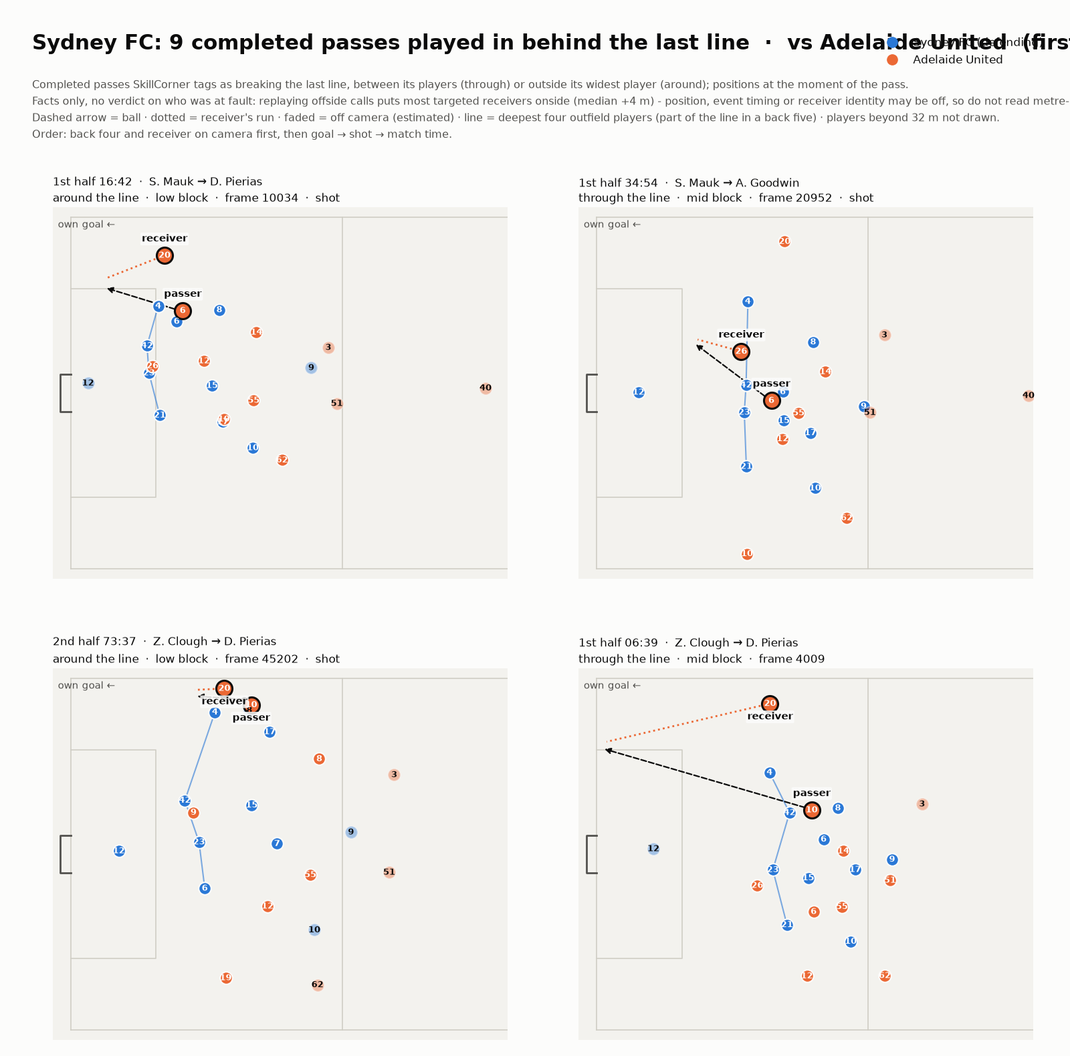
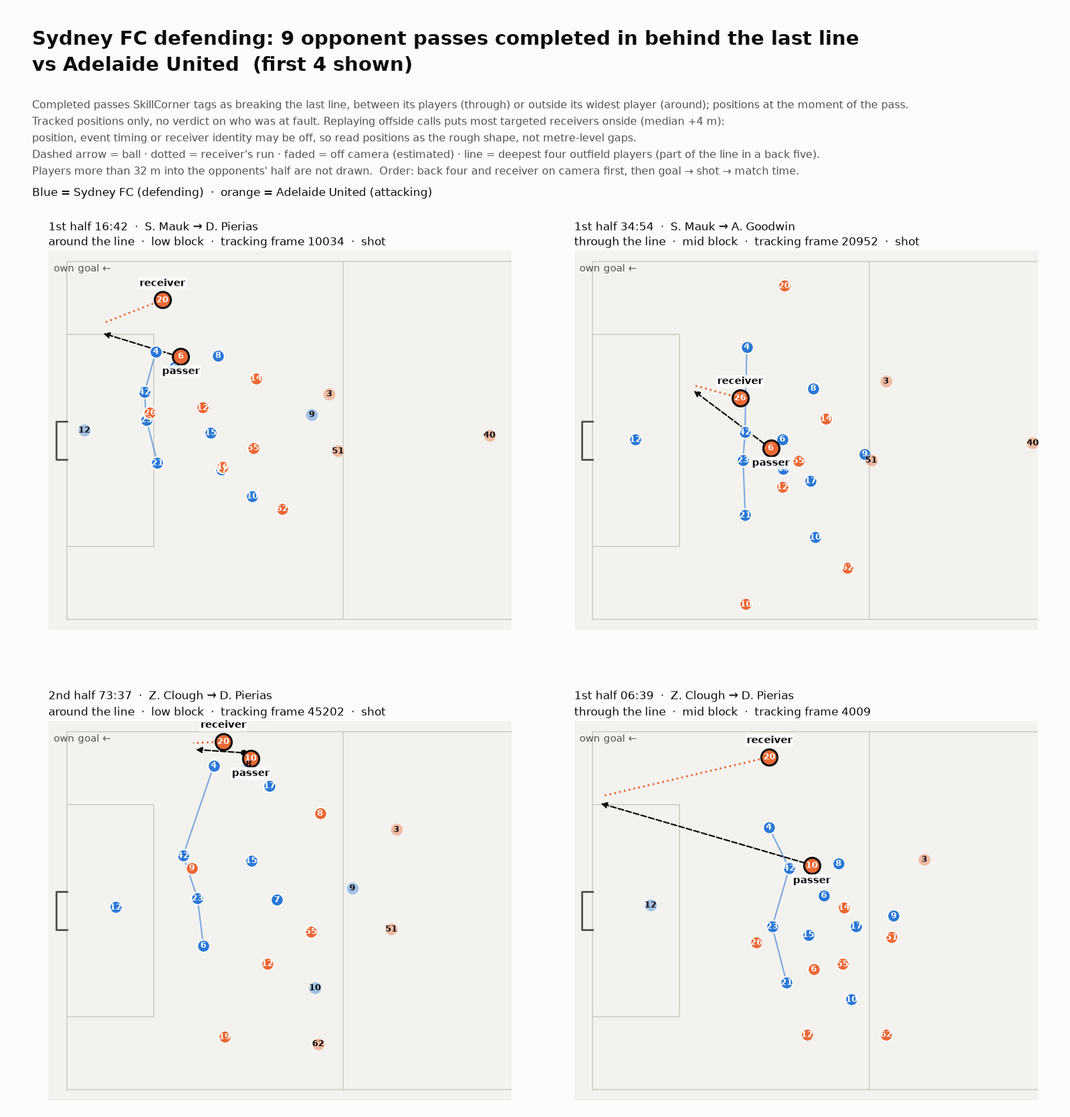
Final review fixes: clarify that SkillCorner tags the passes, defending-team titles, tracking frame (10 fps), defensive phase, cross-match reliability (5 of 9 not detectable, 39 team-matches), per-r sample sizes, low-block coverage bias, matches.json for other leagues, layout fixes in figures, stale

diff --git a/backline/cards.py b/backline/cards.py
@@ -12,23 +12,27 @@ from .usual import COARSE
 
 DEF, ATT = "#2a78d6", "#eb6834"
 TXT = {
-    "en": dict(title="{team}: {n} completed passes played in behind the last line  ·  vs {opp}",
+    "en": dict(title="{team} defending: {n} opponent {passes} completed in behind the last line  ·  vs {opp}",
                sub=("Completed passes SkillCorner tags as breaking the last line, between its players (through) or outside its widest player (around); positions at the moment of the pass.\n"
-                    "Facts only, no verdict on who was at fault: replaying offside calls puts most targeted receivers onside (median +4 m) - position, event timing or receiver identity may be off, so do not read metre-level gaps.\n"
-                    "Dashed arrow = ball · dotted = receiver's run · faded = off camera (estimated) · line = deepest four outfield players (part of the line in a back five) · players beyond {xmax:.0f} m not drawn.\n"
+                    "Tracked positions only, no verdict on who was at fault. Replaying offside calls puts most targeted receivers onside (median +4 m):\n"
+                    "position, event timing or receiver identity may be off, so read positions as the rough shape, not metre-level gaps.\n"
+                    "Dashed arrow = ball · dotted = receiver's run · faded = off camera (estimated) · line = deepest four outfield players (part of the line in a back five).\n"
+                    "Players more than {xmax:.0f} m into the opponents' half are not drawn.  "
                     "Order: back four and receiver on camera first, then goal → shot → match time."),
                half={1: "1st half", 2: "2nd half"}, shot="shot", goal="GOAL", through="through the line", around="around the line",
                blocks={"low_block": "low block", "medium_block": "mid block", "high_block": "high block",
                        "defending_direct": "vs direct play", "defending_transition": "in transition", "chaotic": "broken play",
                        "defending_set_play": "set play", "defending_quick_break": "vs quick break"},
                legend_def="{team} (defending)", legend_att="{opp}", passer="passer", receiver="receiver", est=" (off camera)",
-               none="No completed pass got in behind the last line ({k} attempted, none completed). Dribbles and runs are not counted.",
-               own_goal="own goal ←", frame="frame {f}", shown="  (first {k} shown)", u_high="line higher than usual (3 m+)",
+               none="No completed pass got in behind the last line ({k} attempted). Dribbles and runs are not counted.",
+               own_goal="own goal ←", frame="tracking frame {f}", key="Blue = {team} (defending)  ·  orange = {opp} (attacking)", shown="  (first {k} shown)", u_high="line higher than usual (3 m+)",
                u_deep="line deeper than usual (3 m+)", u_same="line about usual", offcam="reference only (key players off camera)"),
-    "ko": dict(title="{team}: 최후방 라인 돌파 성공 패스 {n}개  ·  상대 {opp}",
+    "ko": dict(title="{team} 수비: 상대가 최후방 라인 뒤로 성공시킨 패스 {n}개{passes}  ·  상대 {opp}",
                sub=("SkillCorner가 최후방 라인 돌파로 표시한 성공 패스 — 라인 선수 사이(사이로) 또는 가장 바깥 선수 바깥(바깥으로). 위치는 패스 순간.\n"
-                    "사실만 표시하고 누구 잘못인지 판정하지 않음 — 오프사이드 판정을 재현해 보면 패스 대상 선수가 대부분 온사이드로 계산됨(중앙값 +4m). 위치·이벤트 시각·받는 선수 식별 중 어디서든 어긋날 수 있으니 m 단위 차이는 읽지 말 것.\n"
-                    "파선 화살표 = 공 · 점선 = 받는 선수 이동 · 흐린 점 = 화면 밖(추정) · 연결선 = 가장 깊은 필드 선수 4명(5백이면 라인 일부) · {xmax:.0f}m 밖 선수는 생략.\n"
+                    "트래킹 위치만 표시하고 누구 잘못인지 판정하지 않음. 오프사이드 판정을 재현해 보면 패스 대상 선수가 대부분 온사이드로 계산됨(중앙값 +4m):\n"
+                    "위치·이벤트 시각·받는 선수 식별 중 어디서든 어긋날 수 있으니, 위치는 대략적인 배치로 보고 m 단위 차이는 읽지 말 것.\n"
+                    "파선 화살표 = 공 · 점선 = 받는 선수 이동 · 흐린 점 = 화면 밖(추정) · 연결선 = 가장 깊은 필드 선수 4명(5백이면 라인 일부).\n"
+                    "상대 진영 {xmax:.0f}m보다 깊은 선수는 생략.  "
                     "순서: 최후방 4명·받는 선수가 화면에 잡힌 장면 먼저, 그 안에서 골 → 슈팅 → 경기 시간."),
                half={1: "전반", 2: "후반"}, shot="슈팅", goal="골", through="라인 사이로", around="라인 바깥으로",
                blocks={"low_block": "로우 블록", "medium_block": "미드 블록", "high_block": "하이 블록",
@@ -36,7 +40,7 @@ TXT = {
                        "defending_set_play": "세트피스", "defending_quick_break": "역습 대응"},
                legend_def="{team} (수비)", legend_att="{opp}", passer="패서", receiver="받는 선수", est="(화면 밖)",
                none="최후방 라인 뒤로 들어간 성공 패스 없음(시도 {k}개는 모두 실패). 드리블·침투는 세지 않음.",
-               own_goal="← 자기 골대", frame="프레임 {f}", shown="  (앞 {k}개만 표시)", u_high="평소보다 라인 높음(3m+)",
+               own_goal="← 자기 골대", frame="트래킹 프레임 {f}", key="파랑 = {team}(수비)  ·  주황 = {opp}(공격)", shown="  (앞 {k}개만 표시)", u_high="평소보다 라인 높음(3m+)",
                u_deep="평소보다 라인 깊음(3m+)", u_same="평소와 비슷한 라인", offcam="참고용(핵심 선수 화면 밖)"),
 }
 
@@ -69,25 +73,28 @@ def render(sc: list[dict], team_name: str, opp_name: str, out: Path, lang="en", 
     n = len(sc)
     cols = 2
     rows = max(1, math.ceil(n / cols))
-    H = 3.4 + 6.2 * rows
+    H = 4.3 + 6.2 * rows
     fig = plt.figure(figsize=(16, H), facecolor=SURFACE)
-    title = T["title"].format(team=team_name, n=total if total is not None else n, opp=opp_name)
+    nn = total if total is not None else n
+    title = T["title"].format(team=team_name, n=nn, opp=opp_name, passes=("pass" if nn == 1 else "passes") if lang == "en" else "")
     if total is not None and total > n:
         title += T["shown"].format(k=n)
-    fig.text(0.03, 1 - 0.5 / H, title, fontsize=22, fontweight="bold", color=INK, va="top")
-    fig.text(0.03, 1 - 1.15 / H, T["sub"].format(xmax=XMAX), fontsize=11.5, color=INK2, va="top", linespacing=1.55)
+    if len(title) > 70:                                   # wide fonts: break before the opponent
+        title = title.replace("  ·  ", "\n", 1)
+    fig.text(0.03, 1 - 0.4 / H, title, fontsize=21, linespacing=1.3, fontweight="bold", color=INK, va="top")
+    fig.text(0.03, 1 - 1.45 / H, T["sub"].format(xmax=XMAX), fontsize=11.5, color=INK2, va="top", linespacing=1.55)
     h = [Line2D([], [], marker="o", ls="", ms=11, color=DEF, label=T["legend_def"].format(team=team_name)),
          Line2D([], [], marker="o", ls="", ms=11, color=ATT, label=T["legend_att"].format(opp=opp_name))]
+    fig.text(0.03, 1 - 2.8 / H, T["key"].format(team=team_name, opp=opp_name), fontsize=12, color=INK, va="top")
     if n % 2 == 1:
-        lax = fig.add_subplot(fig.add_gridspec(rows, 2, left=0.03, right=0.985, top=1 - 3.1 / H, bottom=0.015,
+        lax = fig.add_subplot(fig.add_gridspec(rows, 2, left=0.03, right=0.985, top=1 - 3.75 / H, bottom=0.015,
                                                wspace=0.06, hspace=0.24)[rows - 1, 1])
         lax.axis("off")
         lax.legend(handles=h, loc="center", frameon=False, fontsize=15)
-    else:
-        fig.legend(handles=h, loc="upper right", bbox_to_anchor=(0.985, 1 - 0.4 / H), frameon=False, fontsize=12.5)
+
     if n == 0:
         fig.text(0.03, 0.4, T["none"].format(k=attempts), fontsize=14, color=INK)
-    gs = fig.add_gridspec(rows, cols, left=0.03, right=0.985, top=1 - 3.1 / H, bottom=0.015, wspace=0.06, hspace=0.24)
+    gs = fig.add_gridspec(rows, cols, left=0.03, right=0.985, top=1 - 3.75 / H, bottom=0.015, wspace=0.06, hspace=0.24)
     for i, s in enumerate(sc):
         ax = fig.add_subplot(gs[i // cols, i % cols])
         _half_pitch(ax, XMAX)
@@ -123,7 +130,7 @@ def render(sc: list[dict], team_name: str, opp_name: str, out: Path, lang="en", 
                 lab = T["receiver"] if p["id"] == s["receiver_id"] else T["passer"]
                 if not p["det"]:
                     lab += T["est"]
-                ax.annotate(lab, (p["x"], p["y"]), xytext=(0, -17 if p["y"] > 27 else 15), textcoords="offset points", ha="center", fontsize=10.5,
+                ax.annotate(lab, (p["x"], p["y"]), xytext=(0, 15 if p["id"] == s["receiver_id"] else -19), textcoords="offset points", ha="center", fontsize=10.5,
                             color=INK, fontweight="bold", zorder=7, bbox=dict(boxstyle="round,pad=0.15", fc=SURFACE, ec="none", alpha=.85))
         res = T["goal"] if s["lead_to_goal"] else (T["shot"] if s["lead_to_shot"] else "")
         g = s.get("usual_gap")

diff --git a/backline/report.py b/backline/report.py
@@ -22,8 +22,8 @@ TXT = {
                "width": "Line width (m)", "shift": "Ball-side shift (line moves N m when ball moves 10 m sideways)", "lockstep": "Moving together (speed spread while the line moves, m/s; lower = more in step)"},
         blocks={"low_block": "low block", "medium_block": "mid block", "all": "low + mid block"},
         meas="seen {s}s of {t}s", nm="not measurable: {s}s on camera",
-        rel="league r: halves {r:.2f} · matches {rc:.2f} (n={n})", league="grey dots = other A-League 24/25 team-matches where this could be measured (dot size = seconds measured)\ncoloured bar = sampling error among THIS match's on-camera moments (90%, resampling defensive phases; excludes tracking error and camera selection)\nleague r = how well the metric repeats between halves / between matches (13 teams); near 0 means read it as this match only",
-        shape="Typical back-line shape (median, measured frames)", attack="own goal ←", hb="High block: all four on camera for only {s}s of {t}s (league median {med}s) — not calculated.",
+        rel="league r: halves {r:.2f} (n={n}) · matches {rc:.2f} (n={nc})", league="grey dots = other team-matches in the league reference where this could be measured (dot size = seconds measured)\ncoloured bar = sampling error among THIS match's on-camera moments (90%, resampling defensive phases; excludes tracking error and camera selection)\nleague r = how well the metric repeats between halves / between matches ({nt} teams); near 0 means read it as this match only",
+        shape="This match: median back-line shape (on-camera frames)", attack="own goal ←", hb="High block: all four on camera for {s}s of {t}s (60 s needed; league median {med}s) — not calculated.",
         lower_is="lower = flatter", lowv="lower = more in step",
         lb_mid="mid block: not shown — on-camera moments there\nare biased towards the ball being near the line\n(on-camera vs estimate-inclusive: typically ~9 m apart)"),
     "ko": dict(
@@ -33,8 +33,8 @@ TXT = {
                "width": "라인 폭 (m)", "shift": "볼 쪽 이동 (공이 옆으로 10m 갈 때 라인 이동 m)", "lockstep": "함께 움직임 (라인 이동 중 속도 흩어짐 m/s, 낮을수록 같이)"},
         blocks={"low_block": "로우 블록", "medium_block": "미드 블록", "all": "로우+미드"},
         meas="{t}초 중 {s}초 화면", nm="측정 불가: 화면 {s}초",
-        rel="리그 r: 전·후반 {r:.2f} · 경기 간 {rc:.2f} (n={n})", league="회색 점 = 측정 가능했던 A리그 24/25 다른 팀-경기 (점 크기 = 측정 시간)\n색 막대 = 이 경기 화면 안 순간들 사이의 표본 오차 (90%, 수비 국면 재표집; 트래킹 오차·화면 선택 편향은 미포함)\n리그 r = 지표가 전·후반 / 경기 간에 되풀이되는 정도(13팀) — 0에 가까우면 이 경기만의 값으로 읽을 것",
-        shape="평소 백포 모양 (중앙값, 측정된 순간)", attack="← 자기 골대", hb="하이 블록: {t}초 중 4명이 모두 화면에 잡힌 시간 {s}초(리그 중앙값 {med}초) — 계산하지 않음.",
+        rel="리그 r: 전·후반 {r:.2f} (n={n}) · 경기 간 {rc:.2f} (n={nc})", league="회색 점 = 리그 기준값 중 측정 가능했던 다른 팀-경기 (점 크기 = 측정 시간)\n색 막대 = 이 경기 화면 안 순간들 사이의 표본 오차 (90%, 수비 국면 재표집; 트래킹 오차·화면 선택 편향은 미포함)\n리그 r = 지표가 전·후반 / 경기 간에 되풀이되는 정도({nt}팀) — 0에 가까우면 이 경기만의 값으로 읽을 것",
+        shape="이 경기 중앙값 백포 모양 (화면에 잡힌 순간)", attack="← 자기 골대", hb="하이 블록: {t}초 중 4명이 모두 화면에 잡힌 시간 {s}초(60초 필요, 리그 중앙값 {med}초) — 계산하지 않음.",
         lower_is="낮을수록 일직선", lowv="낮을수록 같이 움직임",
         lb_mid="미드 블록: 표시 안 함 — 화면에 잡힌 순간이\n'공이 라인 가까울 때'로 쏠려 있어\n추정값 포함 값과 보통 약 9m 차이"),
 }
@@ -70,7 +70,7 @@ def render(frames, met, team_id, team_name, opp_name, league: pd.DataFrame, out:
                           wspace=0.12, hspace=1.75)
     fig.text(0.03, 0.958, T["title"].format(team=team_name, opp=opp_name), fontsize=23, fontweight="bold", color=INK)
     fig.text(0.03, 0.935, T["sub"], fontsize=12.5, color=INK2, va="top", linespacing=1.4)
-    fig.text(0.03, 0.897, T["league"], fontsize=11.5, color=INK2, va="top", linespacing=1.4)
+    fig.text(0.03, 0.897, T["league"].replace("{nt}", str(league.team_id.nunique())), fontsize=11.5, color=INK2, va="top", linespacing=1.4)
     for j, blk in enumerate(("low_block", "medium_block")):
         fig.text(0.03 + j * 0.305, 0.822, T["blocks"][blk], fontsize=16, fontweight="bold", color=BLOCK_COLOR[blk])
     for i, name in enumerate(names):
@@ -103,7 +103,7 @@ def render(frames, met, team_id, team_name, opp_name, league: pd.DataFrame, out:
                 txt = f"{val:.{2 if r.metric == 'lockstep' else 1}f}{(' ' + r.unit) if r.unit else (' m' if r.metric == 'shift' else '')}  ·  {T['meas'].format(s=r.seconds_measured, t=r.seconds_in_block)}"
                 ax.text(1.0, 1.25, txt, transform=ax.transAxes, ha="right", va="bottom", fontsize=12, color=INK2)
                 if pd.notna(r.reliability):
-                    ax.text(1.0, 0.98, T['rel'].format(r=r.reliability, rc=r.reliability_cross, n=int(r.reliability_n)), transform=ax.transAxes,
+                    ax.text(1.0, 0.98, T['rel'].format(r=r.reliability, rc=r.reliability_cross, n=int(r.reliability_n), nc=int(r.reliability_n_cross)), transform=ax.transAxes,
                             ha="right", va="bottom", fontsize=10.5, color=INK2)
             else:
                 ax.text(0.5, 0, T["nm"].format(s=r.seconds_measured), transform=ax.transAxes, ha="center", va="center", fontsize=12, color=INK2)

diff --git a/backline/scenes.py b/backline/scenes.py
@@ -4,7 +4,7 @@ Cards show facts only - where everyone was when the pass was played, the ball's 
 They make NO judgement about who was at fault:
 - replaying offside calls fails (only 6 of 62 come out offside at the pass frame, audit/offside_diag.py): positions,
   event timing or receiver identity can be off by metres, so metre-level gaps are not trustworthy;
-- a "player left behind the line" flag was tested and dropped: most flags used off-camera estimates, half vanished
+- a "player left behind the line" flag was tested and dropped: 8 of 14 flags used off-camera estimates, 5 vanished
   when the pass moment moved by 0.5 s, and marking / covering / mistake cannot be told apart (audit/R1B_robust.py).
 Coordinates: defending team attacks +x (own goal on the left at x = -52.5).
 """
@@ -94,6 +94,7 @@ def scenes(mid: int, team_id: int, include_failed: bool = False) -> list[dict]:
                         ball_pass=ball(f0), ball_reception=ball(f1) if f1 else (np.nan, np.nan),
                         receiver_at_reception=next(((p["x"], p["y"]) for p in players(f1) if p["id"] == rec), None) if f1 else None))
     # most useful first: fully on camera, then those leading to a goal/shot, then match time
-    out.sort(key=lambda s: (not (s["line_on_camera"] and s["receiver_on_camera"]), not s["lead_to_goal"],
+    out.sort(key=lambda s: (not (s["line_on_camera"] and s["receiver_on_camera"] and s["receiver_on_camera_at_reception"]),
+                            not s["lead_to_goal"],
                             not s["lead_to_shot"], s["frame"]))
     return out

diff --git a/backline/metrics.py b/backline/metrics.py
@@ -62,7 +62,7 @@ def team_metrics(frames: pd.DataFrame, team_id: int, seed: int = 0, n_boot: int 
             total_s, meas_s = len(allf) / FPS, len(m) / FPS
             rel = RELIABILITY.get(f"{name}|{blk}", {})
             row = dict(metric=name, block=blk, unit=spec["unit"], reliability=rel.get("r", np.nan), reliability_n=rel.get("n", 0),
-                       reliability_cross=rel.get("r_cross", np.nan),
+                       reliability_cross=rel.get("r_cross", np.nan), reliability_n_cross=rel.get("n_cross", 0),
                        seconds_in_block=round(total_s), seconds_measured=round(meas_s),
                        coverage=meas_s / total_s if total_s else 0.0, value=np.nan, lo=np.nan, hi=np.nan,
                        measurable=meas_s >= MIN_SECONDS, n_phases=int(m.phase_id.nunique()))

diff --git a/backline/usual.py b/backline/usual.py
@@ -1,6 +1,6 @@
 """'Usual line': where this team's back four normally stood in THIS match when the ball was in a similar place.
 
-NOT USED IN THE CARDS. Pre-registered check (VERIFY_USUAL.md, audit/verify_usual.py) failed: in ordinary moments the
+NOT USED IN THE CARDS. Check written before running it (docs/usual_line_test.md, audit/verify_usual.py) failed: in ordinary moments the
 line is already >= 3 m away from this 'usual' line 46% of the time (median 2.7 m), and scenes where the line was
 beaten were not further from it (2.9 m vs 3.5 m, p = .12). Kept for transparency and reuse.
 

diff --git a/backline/breaks.py b/backline/breaks.py
@@ -1,4 +1,6 @@
-"""Passes that break the last defensive line: who played the receiver onside, and what if they had held the line?
+"""Offside replay used by audit/offside_diag.py (the "would have been offside" card feature it was built for was dropped).
+
+Passes that break the last defensive line: who played the receiver onside, and what if they had held the line?
 
 For each SkillCorner `player_possession` that ends in a pass flagged `last_line_break`, at the pass frame:
 - offside line = second-deepest defending player (goalkeeper included), capped by the ball and the halfway line;

diff --git a/backline/frames.py b/backline/frames.py
@@ -3,7 +3,7 @@
 Coordinates are flipped so the DEFENDING team attacks +x (own goal at x = -52.5).
 The back four is the four deepest outfield players at each frame. A frame is "measured"
 only when all four are detected by the camera; off-screen positions are estimates and
-are never used for metrics (see README, "Why coverage matters").
+are never used for metrics (see README, "Only what the camera saw").
 """
 import numpy as np
 import pandas as pd

diff --git a/audit/verify_usual.py b/audit/verify_usual.py
@@ -1,4 +1,4 @@
-"""VERIFY_USUAL.md: do line-break scenes deviate more from the usual line than comparable moments? (pre-registered)"""
+"""docs/usual_line_test.md: do line-break scenes deviate more from the usual line than comparable moments? (rules written before running)"""
 from multiprocessing import Pool
 
 import numpy as np

diff --git a/README.md b/README.md
@@ -1,10 +1,10 @@
-# backline — the passes that beat your last line, found straight after the match
+# backline — the passes that beat your back line, on one page after the match
 
-**In one line:** `backline` turns SkillCorner broadcast tracking into a page of scene cards for every completed pass SkillCorner tags as breaking a team's last line, plus a back-line match report. We also tested what we could not reproduce from this data, and kept those features out.
+**In one line:** SkillCorner's event data tags passes that break a team's last line; `backline` gathers the completed ones into a page of scene cards drawn from tracking, adds a back-line match report, and shows how much the camera actually saw. Extra judgements we tried (offside, who was left behind, the usual line) did not hold up when tested, so they are left out.
 
 ## Why
 
-Moments when the back line is beaten are a natural starting point for a defensive review. `backline` lists them with the match clock, so they can be found in the video without scrubbing.
+Moments when the back line is beaten are a natural starting point for a defensive review; `backline` lists them with the match clock so they can be found in the video.
 
 ## Use
 
@@ -13,51 +13,51 @@ pip install .
 python -m backline 1996435 --team 869 --scenes
 ```
 
-The first run downloads that match (about 90 MB) from a pinned commit of the SkillCorner open data. Leave out `--team` to get both teams. Each team gets two pages:
+The first run downloads that match (about 90 MB) from a pinned commit of the SkillCorner open data. Leave out `--team` for both teams. Each team gets a match report, plus scene cards with `--scenes`, written to `reports/`:
 
-1. **Scene cards** (Figure 1): every completed pass that SkillCorner tags as breaking the last defensive line, either between its players (through) or outside its widest player (around). Incomplete attempts, dribbles and runs are not included. Across the 20 A-League 24/25 matches there are 0 to 9 per team-match, 113 in total (58 through, 55 around).
-2. **Match report**: line height, width and front-to-back spread for low and mid blocks, plus ball-side shift and moving together, each set against the league distribution.
+1. **Scene cards** (Figure 1): every completed opponent pass SkillCorner tags as breaking the last defensive line, between its players (through) or outside its widest player (around). Incomplete attempts are left out by default (`--include-failed` adds them); dribbles and runs are not covered. Across the 20 A-League 24/25 matches there are 0 to 9 per team-match, 113 in total (58 through, 55 around).
+2. **Match report**: line height, width and spread (low and mid block), ball-side shift and moving together, each against the league.
 
 ![Figure 1](figures/fig1_scenes_en.png)
 
-**Figure 1.** Sydney FC v Adelaide United, the first 4 of 9 cards (`--max-scenes 4`). Each card shows the half and match clock, passer and receiver, through or around the line, the defensive block, the video frame number, and whether the move ended in a shot or goal. The pitch shows player positions at the moment of the pass (players more than 32 m into the opponents' half are not drawn), the ball's path (dashed arrow) and the receiver's run (dotted). Faded players were off camera, so their positions are estimates. Cards where the back four and the receiver were on camera come first.
+**Figure 1.** Sydney FC v Adelaide United, the first 4 of 9 cards (`--max-scenes 4`). Each card shows the match clock, passer and receiver, through or around, the defensive phase, the tracking frame (10 fps), and any shot or goal. The pitch shows player positions at the moment of the pass (players more than 32 m into the opponents' half are not drawn), the ball's path (dashed arrow) and the receiver's run (dotted). Faded players were off camera (estimated positions); fully on-camera cards come first. Read positions as the rough shape, not metre-level gaps.
 
 ### Other matches and leagues
 
-It should run on any match in the same SkillCorner open-data format (tested on the 20 A-League 24/25 matches): point `BACKLINE_DATA` at a folder holding `<id>_tracking_extrapolated.jsonl`, `<id>_dynamic_events.csv`, `<id>_phases_of_play.csv` and `<id>_match.json` for each match. The report's league dots and reliability figures are A-League 24/25 values; rebuild them for another league with `python -m backline.league`. Event-only data cannot be used. (This submission itself uses only the matches provided for the Cup.)
+It should run on any match in the same SkillCorner open-data format (tested on the 20 A-League 24/25 matches): point `BACKLINE_DATA` at a folder with a `matches.json` listing the match ids and, per match, `<id>/<id>_tracking_extrapolated.jsonl`, `_dynamic_events.csv`, `_phases_of_play.csv` and `_match.json`. League dots and reliability are A-League 24/25 values; rebuild them with `python -m backline.league`. Event-only data cannot be used. (This submission uses only the matches provided for the Cup.)
 
 ## Only what the camera saw
 
-SkillCorner tracking is built from broadcast video. The camera follows the ball, and players outside the frame get estimated positions. All four back-line players are on camera in 71% of low-block frames, 31% of mid-block frames and 3% of high-block frames overall; a typical team-match had about 2 seconds of its roughly 4 minutes of high block on camera. So `backline`:
+SkillCorner tracking comes from broadcast video; players outside the frame get estimated positions. All four back-line players are on camera in 71% of low-block frames, 31% of mid-block frames and 3% of high-block frames overall; a typical team-match had about 2 seconds of its roughly 4 minutes of high block on camera. So `backline`:
 
-- computes report metrics only from moments when all four are on camera, prints how many seconds that was, and marks the high block "not calculated". Mid-block values therefore describe moments with the ball near the line;
-- shows each number with the sampling error among this match's on-camera moments (90%, resampling defensive phases; tracking error and camera selection are not included), against league dots that come from different amounts of on-camera time;
-- gives every metric's league reliability, both first half against second half and match to match within the same team. For line width, ball-side shift and moving together, repetition across matches was not detectable (r −0.28 to 0.08, 13 teams), and no metric is presented as a team's habit.
+- computes report metrics only from moments when all four are on camera, prints how many seconds that was, and marks the high block "not calculated". Mid-block values therefore describe moments with the ball near the line (a weaker version of this bias affects the low block);
+- shows each number with the sampling error among this match's on-camera moments (90%, resampling defensive phases; tracking error and camera selection are not included), against league dots that come from different amounts of on-camera time and give context, not a team ranking;
+- gives every metric's league reliability: first half against second half, and match to match within the same team (39 team-matches, 13 teams). Across matches, five of nine metric–block pairs did not repeat detectably (width, ball-side shift, moving together, low-block spread, mid-block height; r −0.28 to 0.27) and the rest reach only r 0.39–0.44, so no metric is presented as a team's habit.
 
 ## What we tried and dropped
 
-Each extra feature was tested against the data; anything that failed was left out.
+Each was tested; failures were left out.
 
 **Table 1.** Features tested and dropped
 
 | Feature | Test | Result | Decision |
 |---|---|---|---|
 | "Would have been offside if the line had held" | Replay the 62 passes called offside | Only 6 of 62 come out offside at the pass frame; targeted receivers a median +4 m onside (position, event timing or receiver identity may be off) | Dropped; cards warn not to read metre-level gaps |
-| Flag a defender left 2 m+ behind the line | On-camera status and timing sensitivity of the 14 flags | 8 used off-camera estimates; 5 vanished within ±0.5 s (1 more could not be checked) | Dropped |
+| Flag a defender left 2 m+ behind the line | On-camera status and timing sensitivity of the 14 flags | 8 used off-camera estimates; 5 vanished within ±0.5 s (1 not checkable); only 4 were on camera and stable | Dropped |
 | Overlay the team's "usual line" in that match | Test written before running ([docs](docs/usual_line_test.md)): 54 beaten scenes vs similar moments | Gap from usual 2.9 m vs 3.5 m (p = 0.12); 46% of ordinary moments are already 3 m+ away | Dropped |
-| Mid-block "ball in front of line" | On-camera value vs value including estimates | On-camera moments are biased towards the ball being near the line; typically ~9 m apart (up to ~18 m), teams reorder | Removed from the report |
+| Mid-block "ball in front of line" | On-camera vs estimate-inclusive value | On-camera moments favour the ball near the line; typically ~9 m apart (up to ~18 m), teams reorder | Removed from the report |
 
-So `backline` does not judge who was at fault: it shows which moments these were and where everyone stood, and leaves the judgement to the coach watching the video.
+So `backline` does not judge who was at fault: it shows which moments these were and roughly where everyone stood, and leaves the judgement to the coach watching the video.
 
 ## Reproduce and test
 
-- Data is not included. `backline/data.py` downloads it from a pinned commit of the SkillCorner open data.
-- League reference values and metric reliability are rebuilt with `python -m backline.league` (`league_reference.csv`, `reliability.json`).
-- Tests: `pip install ".[test]"` then `pytest` (2 synthetic tests plus 4 on real matches), also run in GitHub Actions.
-- `audit/` holds the research scripts behind Table 1 (reimplementation, robustness, offside replay, usual-line test). They are notes rather than one-command reproductions: some read intermediate files written by earlier steps.
+- Data is not included; `backline/data.py` downloads it from a pinned commit.
+- `python -m backline.league` rebuilds `league_reference.csv` and `reliability.json`.
+- Tests: `pip install ".[test]"` then `pytest` (2 synthetic, 4 on real matches; downloads two more matches), also run in GitHub Actions.
+- `audit/` holds the research notes behind Table 1 (not one-command reproductions).
 
 ## Notes
 
 - Licence: MIT (`LICENSE.md`).
-- Data: only the SkillCorner × PySport open data (A-League 24/25).
+- Data: SkillCorner × PySport open data (A-League 24/25) only.
 - AI use: Claude (Anthropic) helped write and review the code. Study design, judgements and final review are the author's.

diff --git a/docs/usual_line_test.md b/docs/usual_line_test.md
@@ -1,16 +1,16 @@
 # "Usual line" overlay: test written before running it
 
-This test was written and committed in the development repository before any result was computed. Code: `audit/verify_usual.py`, feature code: `backline/usual.py` (kept, not used by the cards).
+This test was written and committed before any result was computed (development repository: rules committed 2026-10-09 09:59 ET, result 10:01 ET; the public repository has a fresh history). Code: `audit/verify_usual.py`, feature code: `backline/usual.py` (kept, not used by the cards).
 
 ## Feature
-For a scene (pass moment, defending team T, block B, ball position b), the "usual line" is the median left-to-right position of T's deepest four outfield players over T's on-camera frames in the same match, same block, with the ball within 6 m of b (10 m if too few), excluding 20 s either side of the scene. Fewer than 50 frames: not computed. Gap Δ = mean x of the actual back four − mean x of the usual line.
+For a scene (pass moment, defending team T, block B, ball position b), the "usual line" is the median position of each of T's deepest four outfield players, ordered left to right, over T's on-camera frames in the same match, same block, with the ball within 6 m of b (10 m if too few), excluding 20 s either side of the scene. Fewer than 50 frames: not computed. Gap Δ = mean x of the actual back four − mean x of the usual line.
 
 ## Question
 In scenes where a completed pass broke the last line, is the line further from its usual position than in comparable moments?
 
 ## Samples
 - Scenes: completed last-line-breaking passes in an organised block, all four on camera, usual line computable.
-- Controls: same match, team and block, on-camera frames with the ball within 6 m of the scene's ball position, at least 20 s away, and no opponent line-breaking pass in the next 3 s; up to 20 per scene (seed 7), each with its own usual line.
+- Controls: same match, team and block, on-camera frames with the ball within 6 m of the scene's ball position, at least 20 s away, and no opponent line-breaking pass in the next 3 s; up to 20 per scene (random order, seed 7 + match id mod 1000), each with its own usual line. Scenes with fewer than 5 controls are left out (none were).
 
 ## Decision rule (fixed in advance)
 - Primary: mean |Δ| scene minus mean |Δ| of its controls, permutation test swapping the scene label within each scene's set (5,000 permutations), two-sided.

diff --git a/audit/README.md b/audit/README.md
@@ -1,12 +1,13 @@
 # audit/
 
 Research scripts behind Table 1 of the main README, kept for transparency. They are notes, not one-command
-reproductions: several read intermediate files written by earlier steps (relative `data/` folder) and some target
-features that were later removed (e.g. `R1B_robust.py` tests the dropped "defender left behind" flag).
+reproductions: several read or write intermediate files (under `data/` or `/tmp`), and some test features that were
+later removed, so they do not all run against the current code.
 
 - `A_*`, `R1A_*`: independent reimplementation of the metrics and scene selection.
-- `B_*`, `R2B_claims.py`: checks of every claim in the report and cards.
-- `R1B_robust.py`: robustness of the dropped "left behind" flag (off-camera share, ±0.5 s timing).
-- `offside_diag.py`: offside replay (uses `backline.breaks` with `which="validation"` to build its input).
+- `B_*`, `R2B_claims.py`: checks of the claims in the report and cards.
+- `R1B_robust.py`: robustness of the dropped "defender left behind" flag (refers to the removed `scenes.OUT_OF_LINE`).
+- `offside_diag.py`: offside replay. Its input is built with
+  `backline.breaks.all_breaks(which="validation").to_parquet("data/offside_validation.parquet")`.
 - `R2A_*`: code audit of the scene cards (reception frame, period sign, ordering).
-- `verify_usual.py`: the pre-written "usual line" test (`docs/usual_line_test.md`).
+- `verify_usual.py`: the "usual line" test (`docs/usual_line_test.md`).
